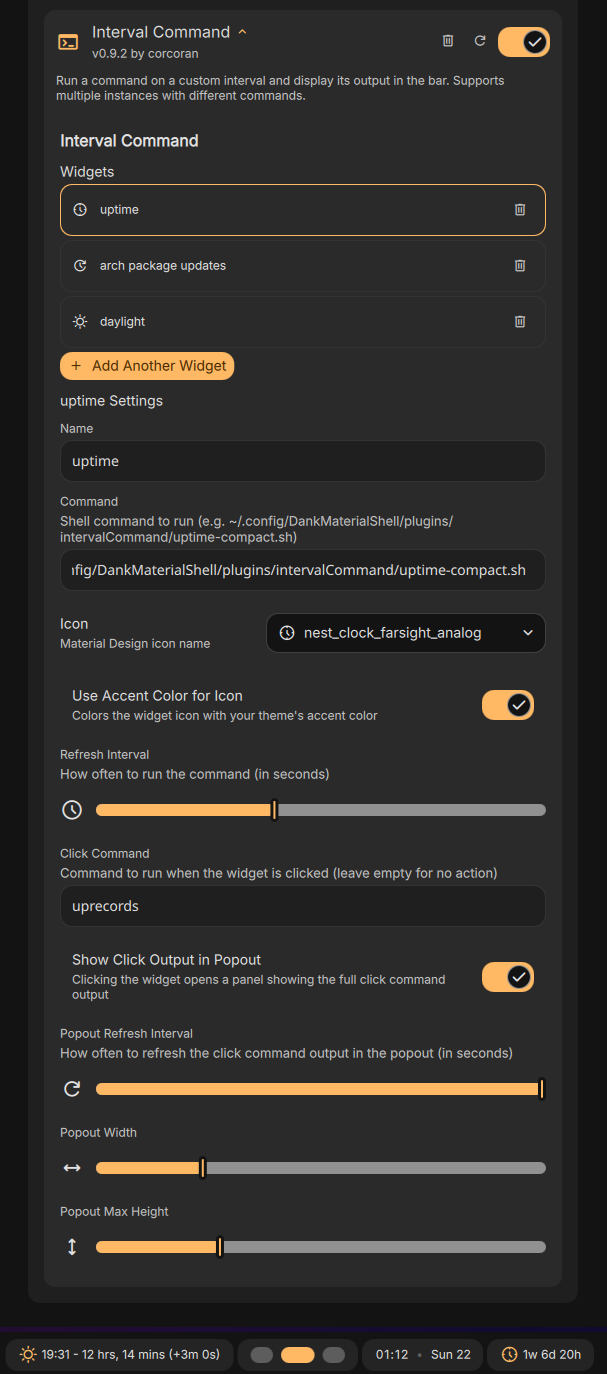
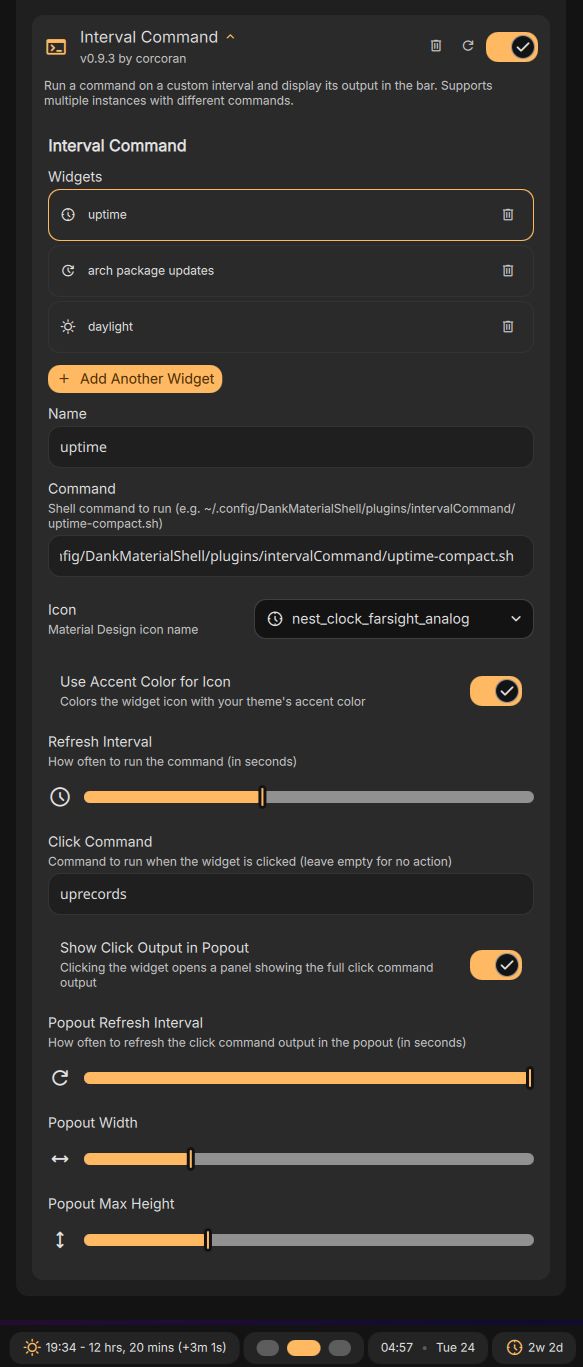
fix: use resetSearch from upstream, clean up settings styles

diff --git a/IntervalCommandSettings.qml b/IntervalCommandSettings.qml
@@ -25,8 +25,6 @@ PluginSettings {
         _syncing = true;
         nameField.text = selectedVariant.name ?? "";
         commandField.text = selectedVariant.command ?? "";
-        // HACK: DankDropdown doesn't clear searchField.text on reopen (upstream bug)
-        // Recreating via Loader is the only way to reset internal state
         iconDropdownLoader.active = false;
         iconDropdownLoader.active = true;
         accentToggle.checked = selectedVariant.useAccentColor ?? false;
@@ -166,12 +164,14 @@ PluginSettings {
     StyledText {
         width: parent.width
         text: "Interval Command"
-        font.pixelSize: Theme.fontSizeLarge
+        font.pixelSize: Appearance.fontSize.large
         font.weight: Font.Bold
         color: Theme.surfaceText
     }
 
     // ── State 1: No widgets — show "Add Widget" button ──
+
+    Item { width: 1; height: Appearance.spacing.small; visible: root.variants.length === 0 }
 
     DankButton {
         visible: root.variants.length === 0
@@ -189,7 +189,6 @@ PluginSettings {
 
     // ── State 2: One or more widgets exist ──
 
-    // Widget list
     Column {
         id: widgetListSection
         visible: root.variants.length > 0
@@ -198,7 +197,7 @@ PluginSettings {
 
         StyledText {
             text: "Widgets"
-            font.pixelSize: Theme.fontSizeMedium
+            font.pixelSize: Appearance.fontSize.normal
             font.weight: Font.Medium
             color: Theme.surfaceText
         }
@@ -241,7 +240,7 @@ PluginSettings {
 
                         StyledText {
                             text: widgetRow.model.name || "Unnamed"
-                            font.pixelSize: Theme.fontSizeSmall
+                            font.pixelSize: Appearance.fontSize.small
                             color: Theme.surfaceText
                             anchors.verticalCenter: parent.verticalCenter
                             elide: Text.ElideRight
@@ -292,6 +291,8 @@ PluginSettings {
             }
         }
 
+        Item { width: 1; height: Appearance.spacing.small }
+
         DankButton {
             text: "Add Another Widget"
             iconName: "add"
@@ -314,22 +315,14 @@ PluginSettings {
         width: parent.width
         spacing: Theme.spacingM
 
-        StyledText {
-            text: (root.selectedVariant?.name || "Widget") + " Settings"
-            font.pixelSize: Theme.fontSizeMedium
-            font.weight: Font.Medium
-            color: Theme.surfaceText
-        }
-
-        // Name
         Column {
             width: parent.width
             spacing: Theme.spacingXS
 
             StyledText {
                 text: "Name"
-                font.pixelSize: Theme.fontSizeSmall
-                color: Theme.surfaceVariantText
+                font.pixelSize: Appearance.fontSize.normal
+                color: Theme.surfaceText
             }
 
             DankTextField {
@@ -342,20 +335,19 @@ PluginSettings {
             }
         }
 
-        // Command
         Column {
             width: parent.width
             spacing: Theme.spacingXS
 
             StyledText {
                 text: "Command"
-                font.pixelSize: Theme.fontSizeSmall
-                color: Theme.surfaceVariantText
+                font.pixelSize: Appearance.fontSize.normal
+                color: Theme.surfaceText
             }
 
             StyledText {
                 text: "Shell command to run (e.g. ~/.config/DankMaterialShell/plugins/intervalCommand/uptime-compact.sh)"
-                font.pixelSize: Theme.fontSizeXSmall
+                font.pixelSize: Appearance.fontSize.small
                 color: Theme.surfaceVariantText
                 wrapMode: Text.WordWrap
                 width: parent.width
@@ -371,14 +363,15 @@ PluginSettings {
             }
         }
 
-        // Icon — wrapped in Loader to work around DankDropdown not clearing
-        // search field text on reopen (upstream bug). Toggling active destroys
-        // and recreates the dropdown, resetting all internal state.
+        // Icon dropdown with fuzzy search.
+        // resetSearch() was added upstream to fix stale search text on reopen.
+        // Fall back to Loader destroy/recreate for older DMS versions without it.
         Loader {
             id: iconDropdownLoader
             width: parent.width
             active: true
             sourceComponent: DankDropdown {
+                id: iconDropdown
                 text: "Icon"
                 description: "Material Design icon name"
                 enableFuzzySearch: true
@@ -389,12 +382,16 @@ PluginSettings {
                 onValueChanged: value => {
                     if (root.selectedVariant) root.selectedVariant.icon = value;
                     root.saveField("icon", value);
-                    iconReloadTimer.restart();
+                    if (typeof iconDropdown.resetSearch === "function") {
+                        iconDropdown.resetSearch();
+                    } else {
+                        iconReloadTimer.restart();
+                    }
                 }
             }
         }
 
-        // HACK: Delayed recreate after icon selection (see Loader comment above)
+        // Fallback for DMS versions without DankDropdown.resetSearch()
         Timer {
             id: iconReloadTimer
             interval: 100
@@ -403,7 +400,6 @@ PluginSettings {
                 iconDropdownLoader.active = true;
             }
         }
-        // Accent Color Toggle
         DankToggle {
             id: accentToggle
             width: parent.width
@@ -416,20 +412,19 @@ PluginSettings {
             }
         }
 
-        // Refresh Interval
         Column {
             width: parent.width
             spacing: Theme.spacingXS
 
             StyledText {
                 text: "Refresh Interval"
-                font.pixelSize: Theme.fontSizeSmall
-                color: Theme.surfaceVariantText
+                font.pixelSize: Appearance.fontSize.normal
+                color: Theme.surfaceText
             }
 
             StyledText {
                 text: "How often to run the command (in seconds)"
-                font.pixelSize: Theme.fontSizeXSmall
+                font.pixelSize: Appearance.fontSize.small
                 color: Theme.surfaceVariantText
                 wrapMode: Text.WordWrap
                 width: parent.width
@@ -447,20 +442,19 @@ PluginSettings {
             }
         }
 
-        // Click Command
         Column {
             width: parent.width
             spacing: Theme.spacingXS
 
             StyledText {
                 text: "Click Command"
-                font.pixelSize: Theme.fontSizeSmall
-                color: Theme.surfaceVariantText
+                font.pixelSize: Appearance.fontSize.normal
+                color: Theme.surfaceText
             }
 
             StyledText {
                 text: "Command to run when the widget is clicked (leave empty for no action)"
-                font.pixelSize: Theme.fontSizeXSmall
+                font.pixelSize: Appearance.fontSize.small
                 color: Theme.surfaceVariantText
                 wrapMode: Text.WordWrap
                 width: parent.width
@@ -476,7 +470,6 @@ PluginSettings {
             }
         }
 
-        // Popout Toggle
         DankToggle {
             id: popoutToggle
             width: parent.width
@@ -489,7 +482,6 @@ PluginSettings {
             }
         }
 
-        // Popout Refresh Interval
         Column {
             visible: popoutToggle.checked
             width: parent.width
@@ -497,13 +489,13 @@ PluginSettings {
 
             StyledText {
                 text: "Popout Refresh Interval"
-                font.pixelSize: Theme.fontSizeSmall
-                color: Theme.surfaceVariantText
+                font.pixelSize: Appearance.fontSize.normal
+                color: Theme.surfaceText
             }
 
             StyledText {
                 text: "How often to refresh the click command output in the popout (in seconds)"
-                font.pixelSize: Theme.fontSizeXSmall
+                font.pixelSize: Appearance.fontSize.small
                 color: Theme.surfaceVariantText
                 wrapMode: Text.WordWrap
                 width: parent.width
@@ -521,7 +513,6 @@ PluginSettings {
             }
         }
 
-        // Popout Width
         Column {
             visible: popoutToggle.checked
             width: parent.width
@@ -529,8 +520,8 @@ PluginSettings {
 
             StyledText {
                 text: "Popout Width"
-                font.pixelSize: Theme.fontSizeSmall
-                color: Theme.surfaceVariantText
+                font.pixelSize: Appearance.fontSize.normal
+                color: Theme.surfaceText
             }
 
             DankSlider {
@@ -545,7 +536,6 @@ PluginSettings {
             }
         }
 
-        // Popout Max Height
         Column {
             visible: popoutToggle.checked
             width: parent.width
@@ -553,8 +543,8 @@ PluginSettings {
 
             StyledText {
                 text: "Popout Max Height"
-                font.pixelSize: Theme.fontSizeSmall
-                color: Theme.surfaceVariantText
+                font.pixelSize: Appearance.fontSize.normal
+                color: Theme.surfaceText
             }
 
             DankSlider {
